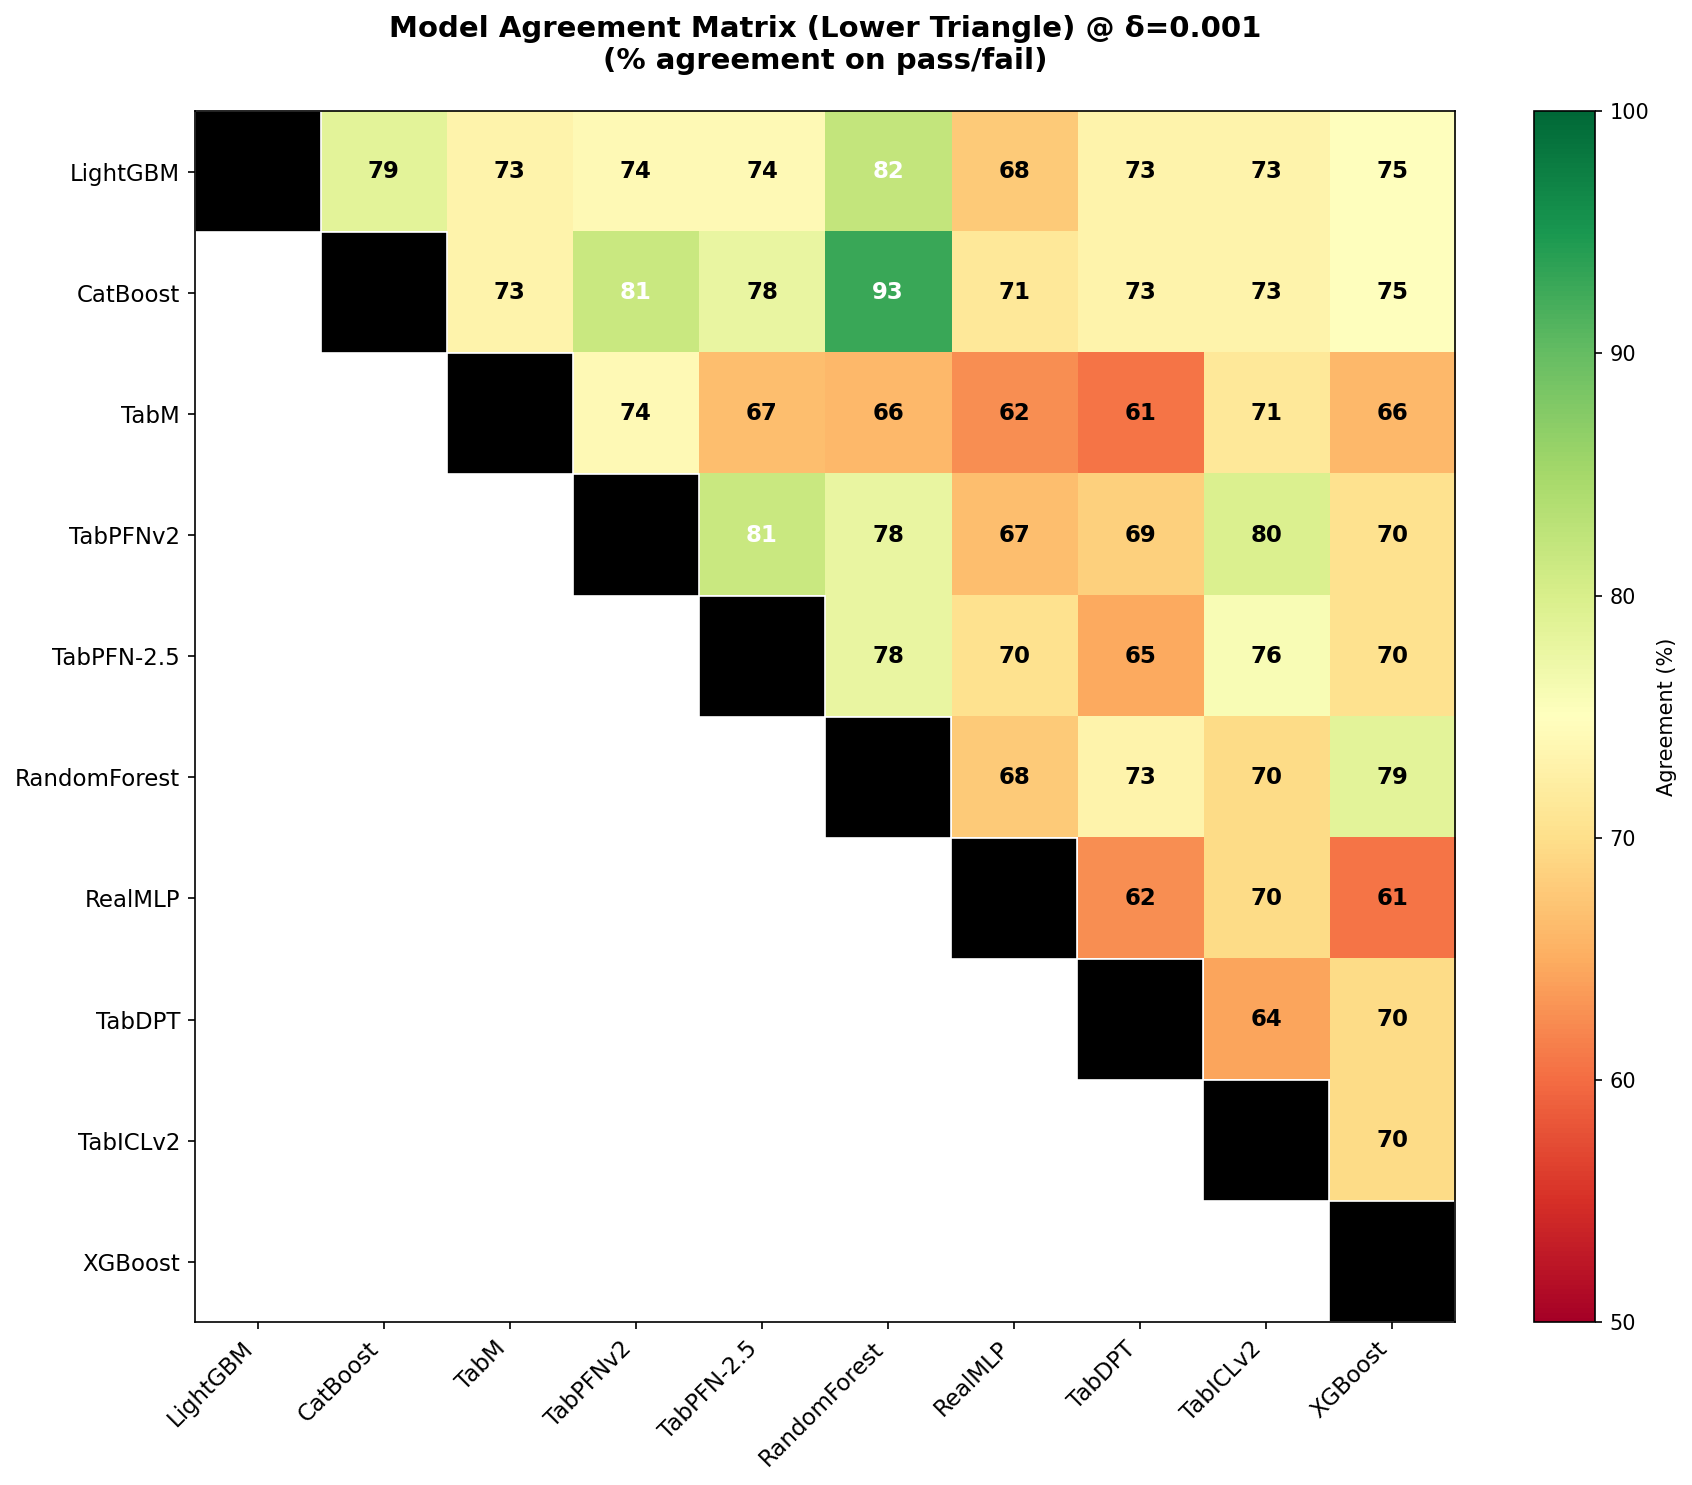
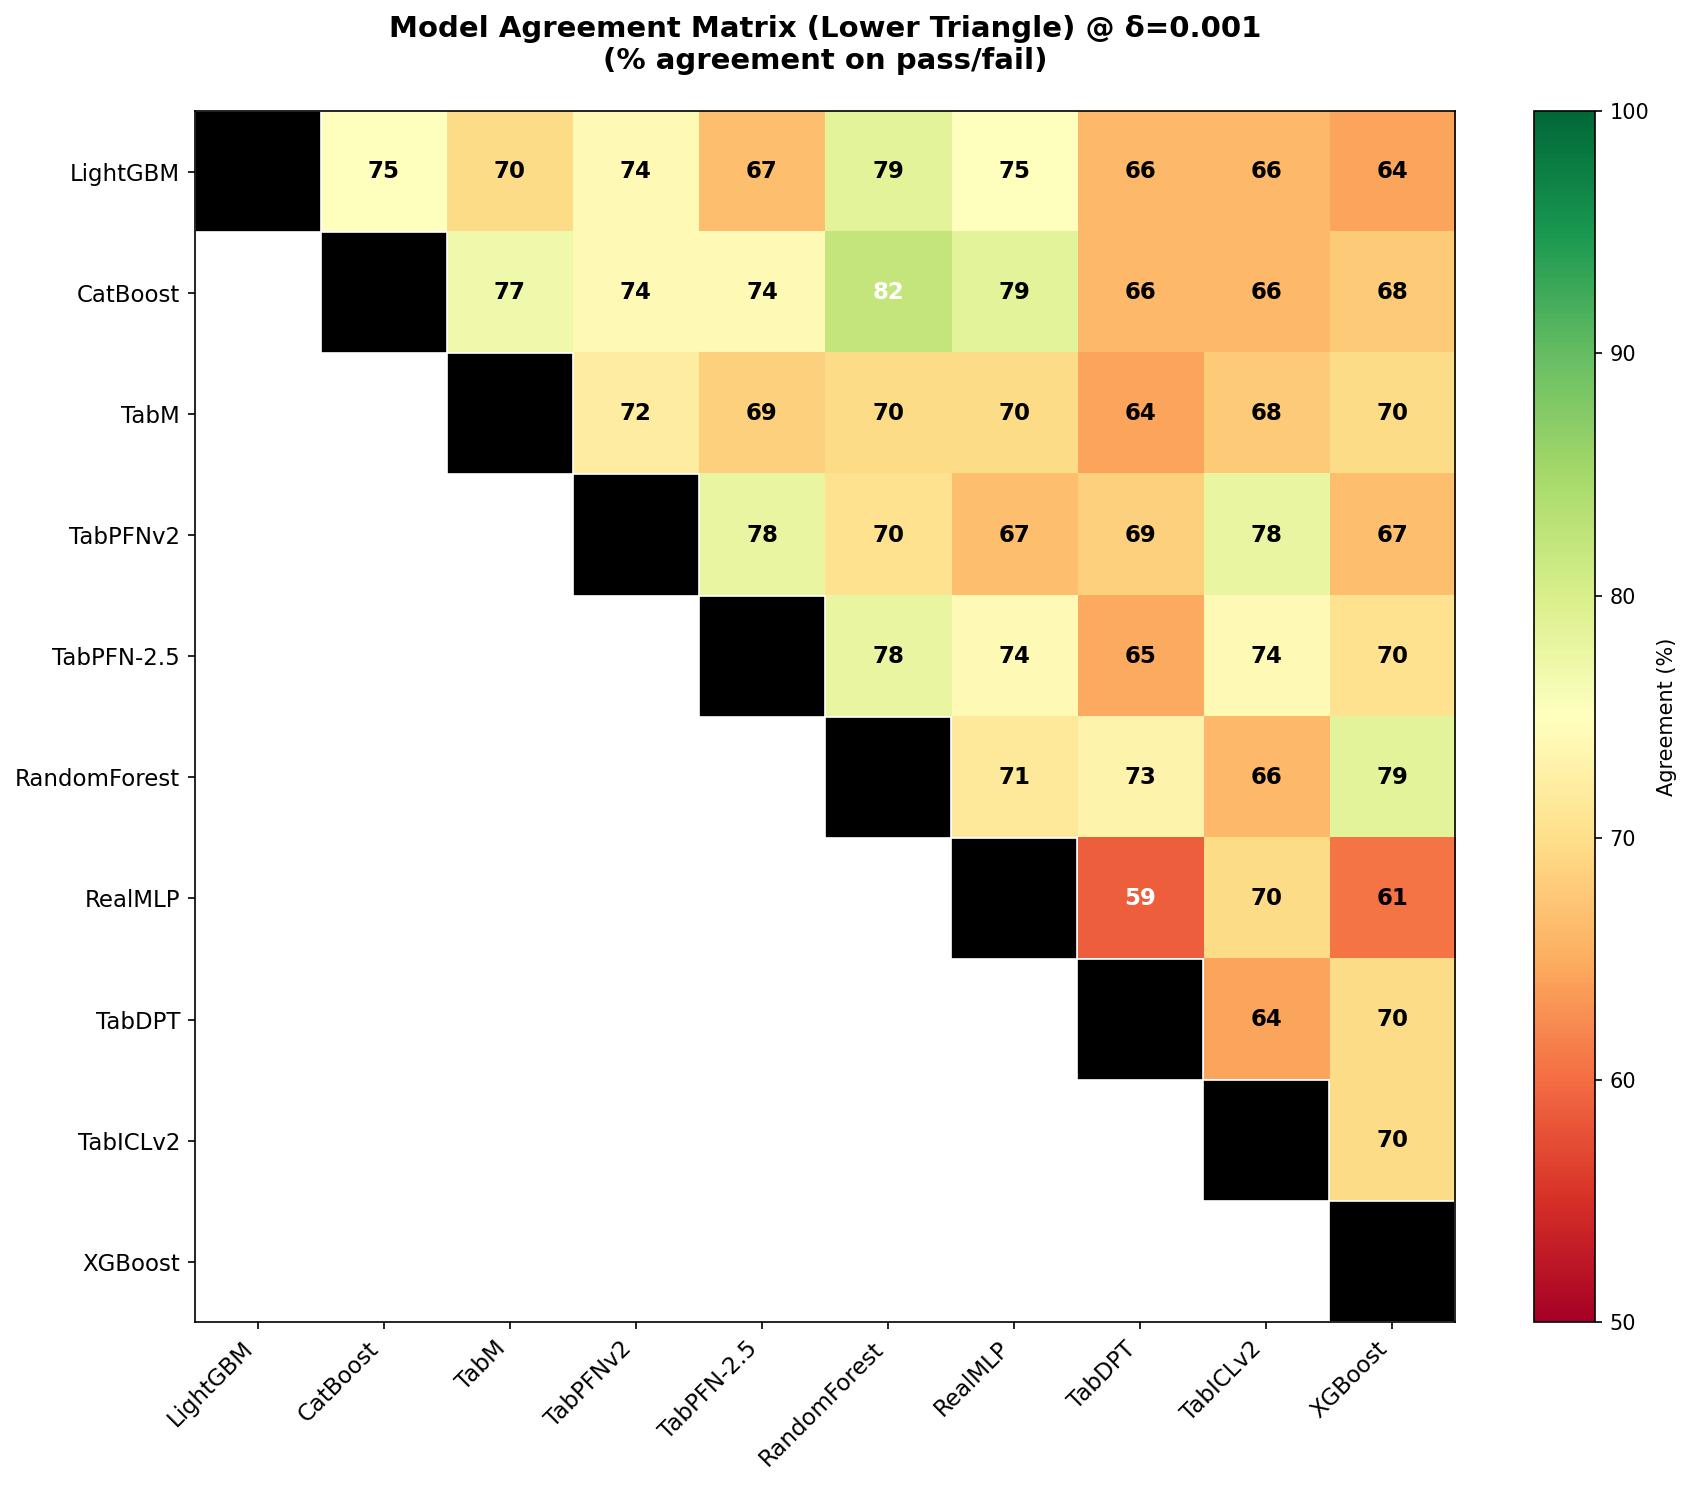
Use one delta comparison everywhere, at the threshold the criterion can express
Rounding per-state means to 3 decimals makes every Delta a multiple of 0.001, so a
tie at delta is the smallest improvement expressible, not noise. pass_matrix.passes_delta
is now the single predicate behind admission, and the modules that had grown their own
raw-float comparison call it. Drops delta=0 from both sweep grids, where it no longer
names a threshold.

Changed region(s): [[0.3381, 0.062, 0.8605, 0.4027], [0.5532, 0.4027, 0.7991, 0.6505], [0.1844, 0.062, 0.3381, 0.1549]]

diff --git a/multabench/leaderboard/analysis/pass_matrix.py b/multabench/leaderboard/analysis/pass_matrix.py
@@ -72,10 +72,18 @@ def state_means(scores: pd.DataFrame, states: tuple = _STATES) -> pd.Series:
 def _exact(delta: float) -> float:
     """A delta between 3-decimal means is a multiple of 0.001, so bring it back to one.
 
-    Left as raw float subtraction, 0.251 - 0.250 is 0.0010000000000000009, and a tie at delta
-    passes a `> delta` test that the criterion says it should fail.
+    Left as raw float subtraction, 0.251 - 0.250 is 0.0010000000000000009 and 0.502 - 0.501 is
+    0.0009999999999999454, so a tie at delta would be decided by binary representation.
     """
     return round(float(delta), 6)
+
+
+def passes_delta(value: float, delta: float = DELTA_DEFAULT) -> bool:
+    """The single comparison behind every acceptance decision: a condition passes once its Delta
+    reaches delta. Means are rounded to 3 decimals, so an exact tie at delta is the smallest
+    improvement the criterion can express and counts as a pass.
+    """
+    return bool(_exact(value) >= delta)
 
 
 def compute_deltas(scores: pd.DataFrame) -> tuple[float, float]:
@@ -107,22 +115,22 @@ def joint_signal_passes(scores: pd.DataFrame, delta: float = DELTA_DEFAULT) -> b
     MulTaBench-Full admission condition -- it rejects pure-NLP tasks (the unstructured modality
     suffices) and redundant-text tasks (the structured modality suffices)."""
     delta_joint, _ = compute_deltas(scores)
-    return delta_joint > delta
+    return passes_delta(delta_joint, delta)
 
 
 def awareness_passes(scores: pd.DataFrame, delta: float = DELTA_DEFAULT) -> bool:
     """Tabular Awareness: fine-tuning the encoder inside the joint model beats freezing it."""
     _, delta_awareness = compute_deltas(scores)
-    return delta_awareness > delta
+    return passes_delta(delta_awareness, delta)
 
 
 def passes(scores: pd.DataFrame, delta: float = DELTA_DEFAULT) -> bool:
     """MulTaBench-Core admission for one (model, dataset): Joint Signal AND Awareness.
 
-        passes <=> Delta_Joint > delta AND Delta_Awareness > delta
+        passes <=> Delta_Joint >= delta AND Delta_Awareness >= delta
     """
     delta_joint, delta_awareness = compute_deltas(scores)
-    return bool(delta_joint > delta and delta_awareness > delta)
+    return passes_delta(delta_joint, delta) and passes_delta(delta_awareness, delta)
 
 
 def build_pass_matrix(df: pd.DataFrame, delta: float = DELTA_DEFAULT) -> pd.DataFrame:

diff --git a/multabench/leaderboard/analysis/model_sensitivity.py b/multabench/leaderboard/analysis/model_sensitivity.py
@@ -7,7 +7,7 @@ curation learners?
   accept vote, across all 56 pool datasets. Directly answers "could TabPFNv2 and TabPFN-2.5
   vote as a bloc?".
 - Extended-model generalization: using the 12-model Frozen/TAR-only pool data, check whether
-  Delta_Awareness > delta holds for models beyond the original 5 (task-awareness half only --
+  Delta_Awareness >= delta holds for models beyond the original 5 (task-awareness half only --
   no Delta_Joint data exists for these models on the pool).
 
 Run standalone: `python -m multabench.leaderboard.analysis.model_sensitivity`
@@ -23,6 +23,7 @@ from multabench.leaderboard.analysis.curation_accept import (
     CURATION_MODELS, DELTA_DEFAULT, EXTRA_MODELS, RHO_DEFAULT,
     accept_set, compute_deltas, load_pool_10model, load_pool_5model, per_model_pass,
 )
+from multabench.leaderboard.analysis.pass_matrix import passes_delta
 
 _OUT_DIR = join(dirname(__file__), "..", "results", "analysis_curation_sensitivity")
 
@@ -182,14 +183,14 @@ def real_per_model_accept_rate(deltas: pd.DataFrame, delta: float = DELTA_DEFAUL
 
 
 def extended_model_awareness(deltas: pd.DataFrame, delta: float = DELTA_DEFAULT) -> pd.DataFrame:
-    """Fraction of pool datasets with Delta_Awareness > delta alone, per model -- isolates the
+    """Fraction of pool datasets with Delta_Awareness >= delta alone, per model -- isolates the
     task-awareness property specifically, decoupled from joint signal. A distinct diagnostic
     from real_per_model_accept_rate() (which requires both conditions)."""
     rows = []
     for model in sorted(deltas["model"].unique()):
         sub = deltas[deltas["model"] == model]
         n = len(sub)
-        n_pass = (sub["delta_awareness"] > delta).sum()
+        n_pass = sum(passes_delta(v, delta) for v in sub["delta_awareness"])
         rows.append({
             "model": model,
             "is_curation_model": model in CURATION_MODELS,
@@ -348,7 +349,7 @@ def main():
 
     extended = extended_model_awareness(deltas_10)
     extended.to_csv(join(_OUT_DIR, "model_extended_awareness.csv"), index=False)
-    print("\n=== Extended-model task-awareness generalization (Delta_Awareness > delta only) ===")
+    print("\n=== Extended-model task-awareness generalization (Delta_Awareness >= delta only) ===")
     print(extended.to_string(index=False))
 
     real_alt = real_alternative_panel(deltas_10)

diff --git a/multabench/leaderboard/analysis/curation_accept.py b/multabench/leaderboard/analysis/curation_accept.py
@@ -2,7 +2,7 @@
 
     Delta_Joint(m)     = S_m(Joint Frozen) - max(S_m(UnimodalStructured), S_m(UnimodalUnstructured))
     Delta_Awareness(m) = S_m(Joint TAR) - S_m(Joint Frozen)
-    Accept(D) <=> |{m in M : Delta_Joint(m) > delta AND Delta_Awareness(m) > delta}| >= rho * |M|
+    Accept(D) <=> |{m in M : Delta_Joint(m) >= delta AND Delta_Awareness(m) >= delta}| >= rho * |M|
 
 Used by the three sensitivity-analysis scripts and by the leaderboard's Sensitivity tab.
 """
@@ -11,6 +11,8 @@ from os.path import dirname, join
 from typing import Iterable
 
 import pandas as pd
+
+from multabench.leaderboard.analysis.pass_matrix import DELTA_DEFAULT, passes_delta
 
 _RESULTS = join(dirname(__file__), "..", "results")
 _CORPUS_CSV = join(_RESULTS, "tabstar_corpus", "text_50_datasets.csv")
@@ -64,7 +66,6 @@ _CONDITION_MAP = {"no_text": "UnimodalStructured", "text_only": "UnimodalUnstruc
                    "all": "JointFrozen", "ft": "JointTAR"}
 _AWARENESS_ONLY_MAP = {"all": "JointFrozen", "ft": "JointTAR"}
 
-DELTA_DEFAULT = 0.001
 RHO_DEFAULT = 3 / 5
 
 
@@ -222,9 +223,10 @@ def compute_deltas_awareness_only(df: pd.DataFrame) -> pd.DataFrame:
 
 
 def per_model_pass(deltas: pd.DataFrame, delta: float = DELTA_DEFAULT) -> pd.DataFrame:
-    """[dataset, model, passes] -- passes iff both deltas exceed delta."""
+    """[dataset, model, passes] -- passes iff both deltas reach delta."""
     out = deltas.copy()
-    out["passes"] = (out["delta_joint"] > delta) & (out["delta_awareness"] > delta)
+    out["passes"] = [passes_delta(j, delta) and passes_delta(a, delta)
+                     for j, a in zip(out["delta_joint"], out["delta_awareness"])]
     return out[["dataset", "model", "passes"]]
 
 

diff --git a/multabench/leaderboard/analysis/text_full_verification.py b/multabench/leaderboard/analysis/text_full_verification.py
@@ -23,7 +23,9 @@ from os.path import dirname, join
 import pandas as pd
 
 from multabench.leaderboard.analysis.committee_pool import CURATION_MODELS, _MODEL_LABELS
-from multabench.leaderboard.analysis.pass_matrix import DELTA_DEFAULT, compute_joint_delta
+from multabench.leaderboard.analysis.pass_matrix import (
+    DELTA_DEFAULT, compute_joint_delta, passes_delta,
+)
 
 _RESULTS = join(dirname(__file__), "..", "results")
 _RUNS_CSV = join(_RESULTS, "text_full", "runs.csv")
@@ -64,7 +66,7 @@ def verdict(runs: pd.DataFrame, delta: float = DELTA_DEFAULT) -> pd.DataFrame:
         rows.append({
             "dataset": dataset, "model": model,
             "no_text": means["no_text"], "text_only": means["text_only"], "all": means["all"],
-            "delta_joint": round(delta_joint, 4), "joint_pass": delta_joint > delta,
+            "delta_joint": round(delta_joint, 4), "joint_pass": passes_delta(delta_joint, delta),
         })
     df = pd.DataFrame(rows)
     per_dataset = df.groupby("dataset")["joint_pass"].sum().rename("joint_pass_5")

diff --git a/multabench/leaderboard/analysis/image_full_verification.py b/multabench/leaderboard/analysis/image_full_verification.py
@@ -19,7 +19,7 @@ import pandas as pd
 
 from multabench.leaderboard.analysis.committee_pool import CURATION_MODELS, _MODEL_LABELS
 from multabench.leaderboard.analysis.pass_matrix import (
-    DELTA_DEFAULT, IMAGE_JOINT_STATES, compute_joint_delta,
+    DELTA_DEFAULT, IMAGE_JOINT_STATES, compute_joint_delta, passes_delta,
 )
 
 _RESULTS = join(dirname(__file__), "..", "results")
@@ -60,7 +60,7 @@ def verdict(runs: pd.DataFrame, delta: float = DELTA_DEFAULT) -> pd.DataFrame:
         rows.append({
             "dataset": dataset, "model": model,
             "non": means["non"], "img": means["img"], "all": means["all"],
-            "delta_joint": round(delta_joint, 4), "joint_pass": delta_joint > delta,
+            "delta_joint": round(delta_joint, 4), "joint_pass": passes_delta(delta_joint, delta),
         })
     df = pd.DataFrame(rows)
     per_dataset = df.groupby("dataset")["joint_pass"].sum().rename("joint_pass_5")

diff --git a/multabench/leaderboard/analysis/committee_delta_sweep.py b/multabench/leaderboard/analysis/committee_delta_sweep.py
@@ -18,13 +18,12 @@ from os.path import dirname, join
 import pandas as pd
 
 from multabench.leaderboard.analysis.committee_panel_pass_rates import panel_pass_rates
-from multabench.leaderboard.analysis.pass_matrix import build_pass_matrix
+from multabench.leaderboard.analysis.pass_matrix import DELTA_DEFAULT, build_pass_matrix
 
 _SCORES_CSV = join(dirname(__file__), "..", "results", "analysis_curation_sensitivity", "pool_scores_long.csv")
 _OUT_CSV = join(dirname(__file__), "..", "results", "analysis_curation_sensitivity", "committee_delta_sweep.csv")
 
-DELTA_DEFAULT = 0.001
-DELTAS = [0.0, 0.0005, 0.001, 0.002, 0.005, 0.01, 0.02, 0.05]
+DELTAS = [0.0005, 0.001, 0.002, 0.005, 0.01, 0.02, 0.05]
 
 
 def delta_sweep(df: pd.DataFrame, deltas=DELTAS) -> pd.DataFrame:

diff --git a/multabench/leaderboard/analysis/delta_sweep.py b/multabench/leaderboard/analysis/delta_sweep.py
@@ -17,9 +17,11 @@ from multabench.leaderboard.analysis.curation_accept import (
 
 _OUT_DIR = join(dirname(__file__), "..", "results", "analysis_curation_sensitivity")
 
-DELTAS = [0.0, 0.0005, 0.001, 0.002, 0.005, 0.01, 0.02, 0.05, 0.1]
+# Starts at the loosest threshold the criterion can express: means are rounded to 3 decimals,
+# so delta=0 would accept a joint model that merely ties its unimodal best.
+DELTAS = [0.0005, 0.001, 0.002, 0.005, 0.01, 0.02, 0.05, 0.1]
 # Fine-grained range used only to locate each dataset's flip point.
-_BORDERLINE_RANGE = [i / 10000 for i in range(0, 101)]  # 0.0000 .. 0.0100 step 0.0001
+_BORDERLINE_RANGE = [i / 10000 for i in range(1, 101)]  # 0.0001 .. 0.0100 step 0.0001
 
 
 def _jaccard(a: set, b: set) -> float:

diff --git a/multabench/leaderboard/analysis/model_agreement.py b/multabench/leaderboard/analysis/model_agreement.py
@@ -4,8 +4,8 @@ Model committee agreement analysis @ δ=0.001
 Computes pairwise agreement on pass/fail decisions across the 56-dataset text-tabular pool.
 Agreement is measured as the percentage of datasets where two models agree on whether
 both conditions hold:
-  - Delta_Joint     = mean(all) - max(mean(no_text), mean(text_only)) > δ
-  - Delta_Awareness = mean(ft) - mean(all) > δ
+  - Delta_Joint     = mean(all) - max(mean(no_text), mean(text_only)) >= δ
+  - Delta_Awareness = mean(ft) - mean(all) >= δ
 
 Run standalone: `python -m multabench.leaderboard.analysis.model_agreement`
 """
